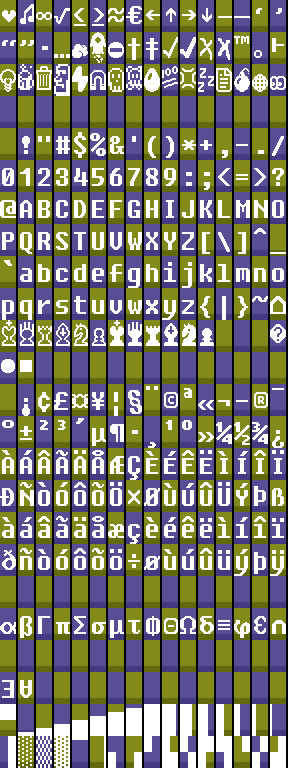
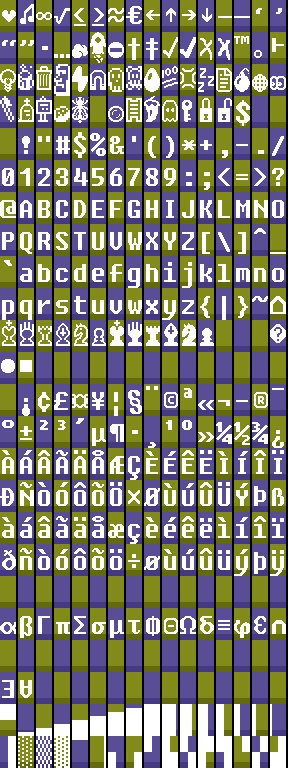
Added some emoji
git-svn-id: file:///home/runner/work/tom7misc-sync-action/tom7misc-sync-action/upstream/trunk@5521 c7e11af0-4c7a-11f1-9edd-117cb6f09d55

Changed region(s): [[0.375, 0.125, 0.875, 0.1875], [0.0, 0.125, 0.3125, 0.1562]]

diff --git a/bit7/makesfd.cc b/bit7/makesfd.cc
@@ -131,8 +131,45 @@ CODEPOINTS = {
   // EMOJI: EYES
   0x1F440,
 
-  // Space for more emoji
-  -1, -1, -1, -1, -1, -1, -1, -1, -1, -1, -1, -1, -1, -1, -1, -1,
+  // Emoji line 2.
+
+  // EMOJI: TOOTHBRUSH
+  0x1FAA5,
+  // EMOJI: HEADSTONE
+  0x1FAA6,
+  // EMOJI: PLACARD (Signpost)
+  0x1FAA7,
+  // EMOJI: ROCK
+  0x1FAA8,
+  // EMJOI: FLY
+  0x1FAB0,
+
+  // EMOJI: MAGIC WAND
+  0x1FA84,
+  // EMOJI: COIN
+  0x1FA99,
+  // EMOJI: LADDER
+  0x1FA9C,
+
+  // EMOJI: HOT PEPPER
+  0x1F336,
+
+  // EMOJI: GHOST
+  0x1F47B,
+
+  // EMOJI: KEY
+  0x1F511,
+
+  // EMOJI: LOCK (LOCKED)
+  0x1F512,
+  // EMOJI: OPEN LOCK
+  0x1F512,
+
+  // EMOJI: HEAVY DOLLAR SIGN
+  0x1F4B2,
+
+  -1, -1,
+
 
   // ASCII, in order
   0x20, 0x21, 0x22, 0x23, 0x24, 0x25, 0x26, 0x27, 0x28, 0x29, 0x2A, 0x2B, 0x2C, 0x2D, 0x2E, 0x2F,
